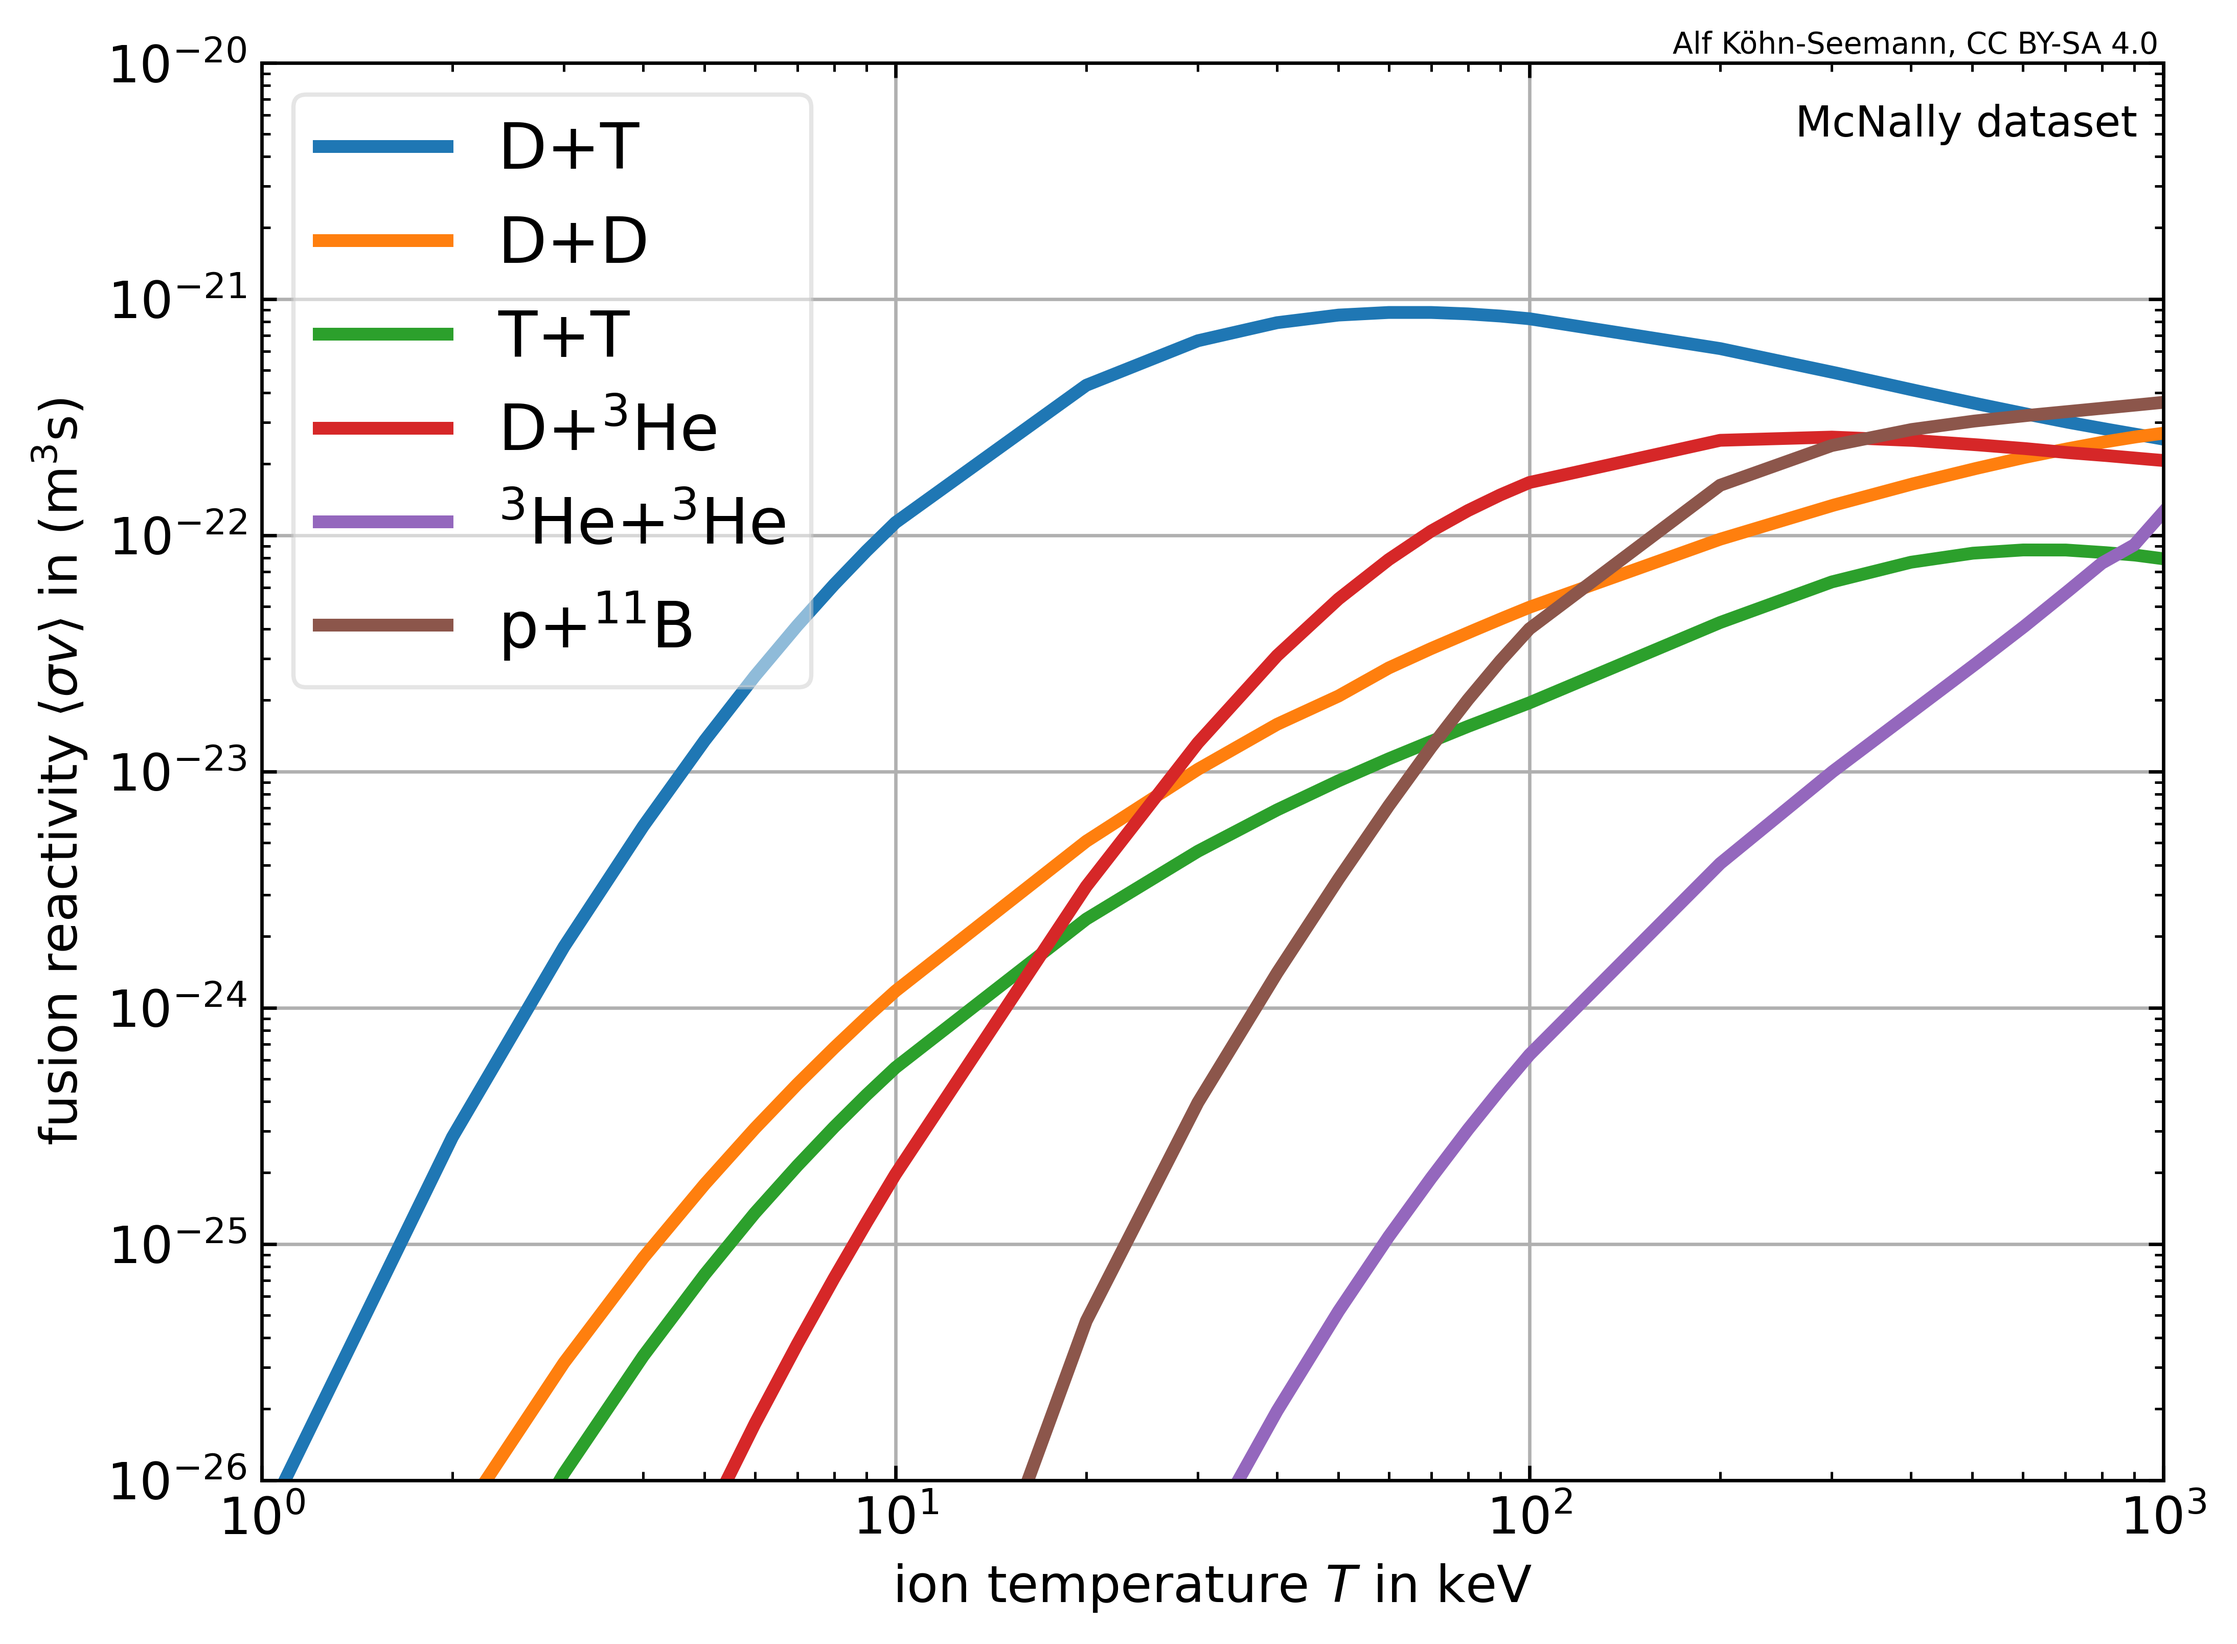
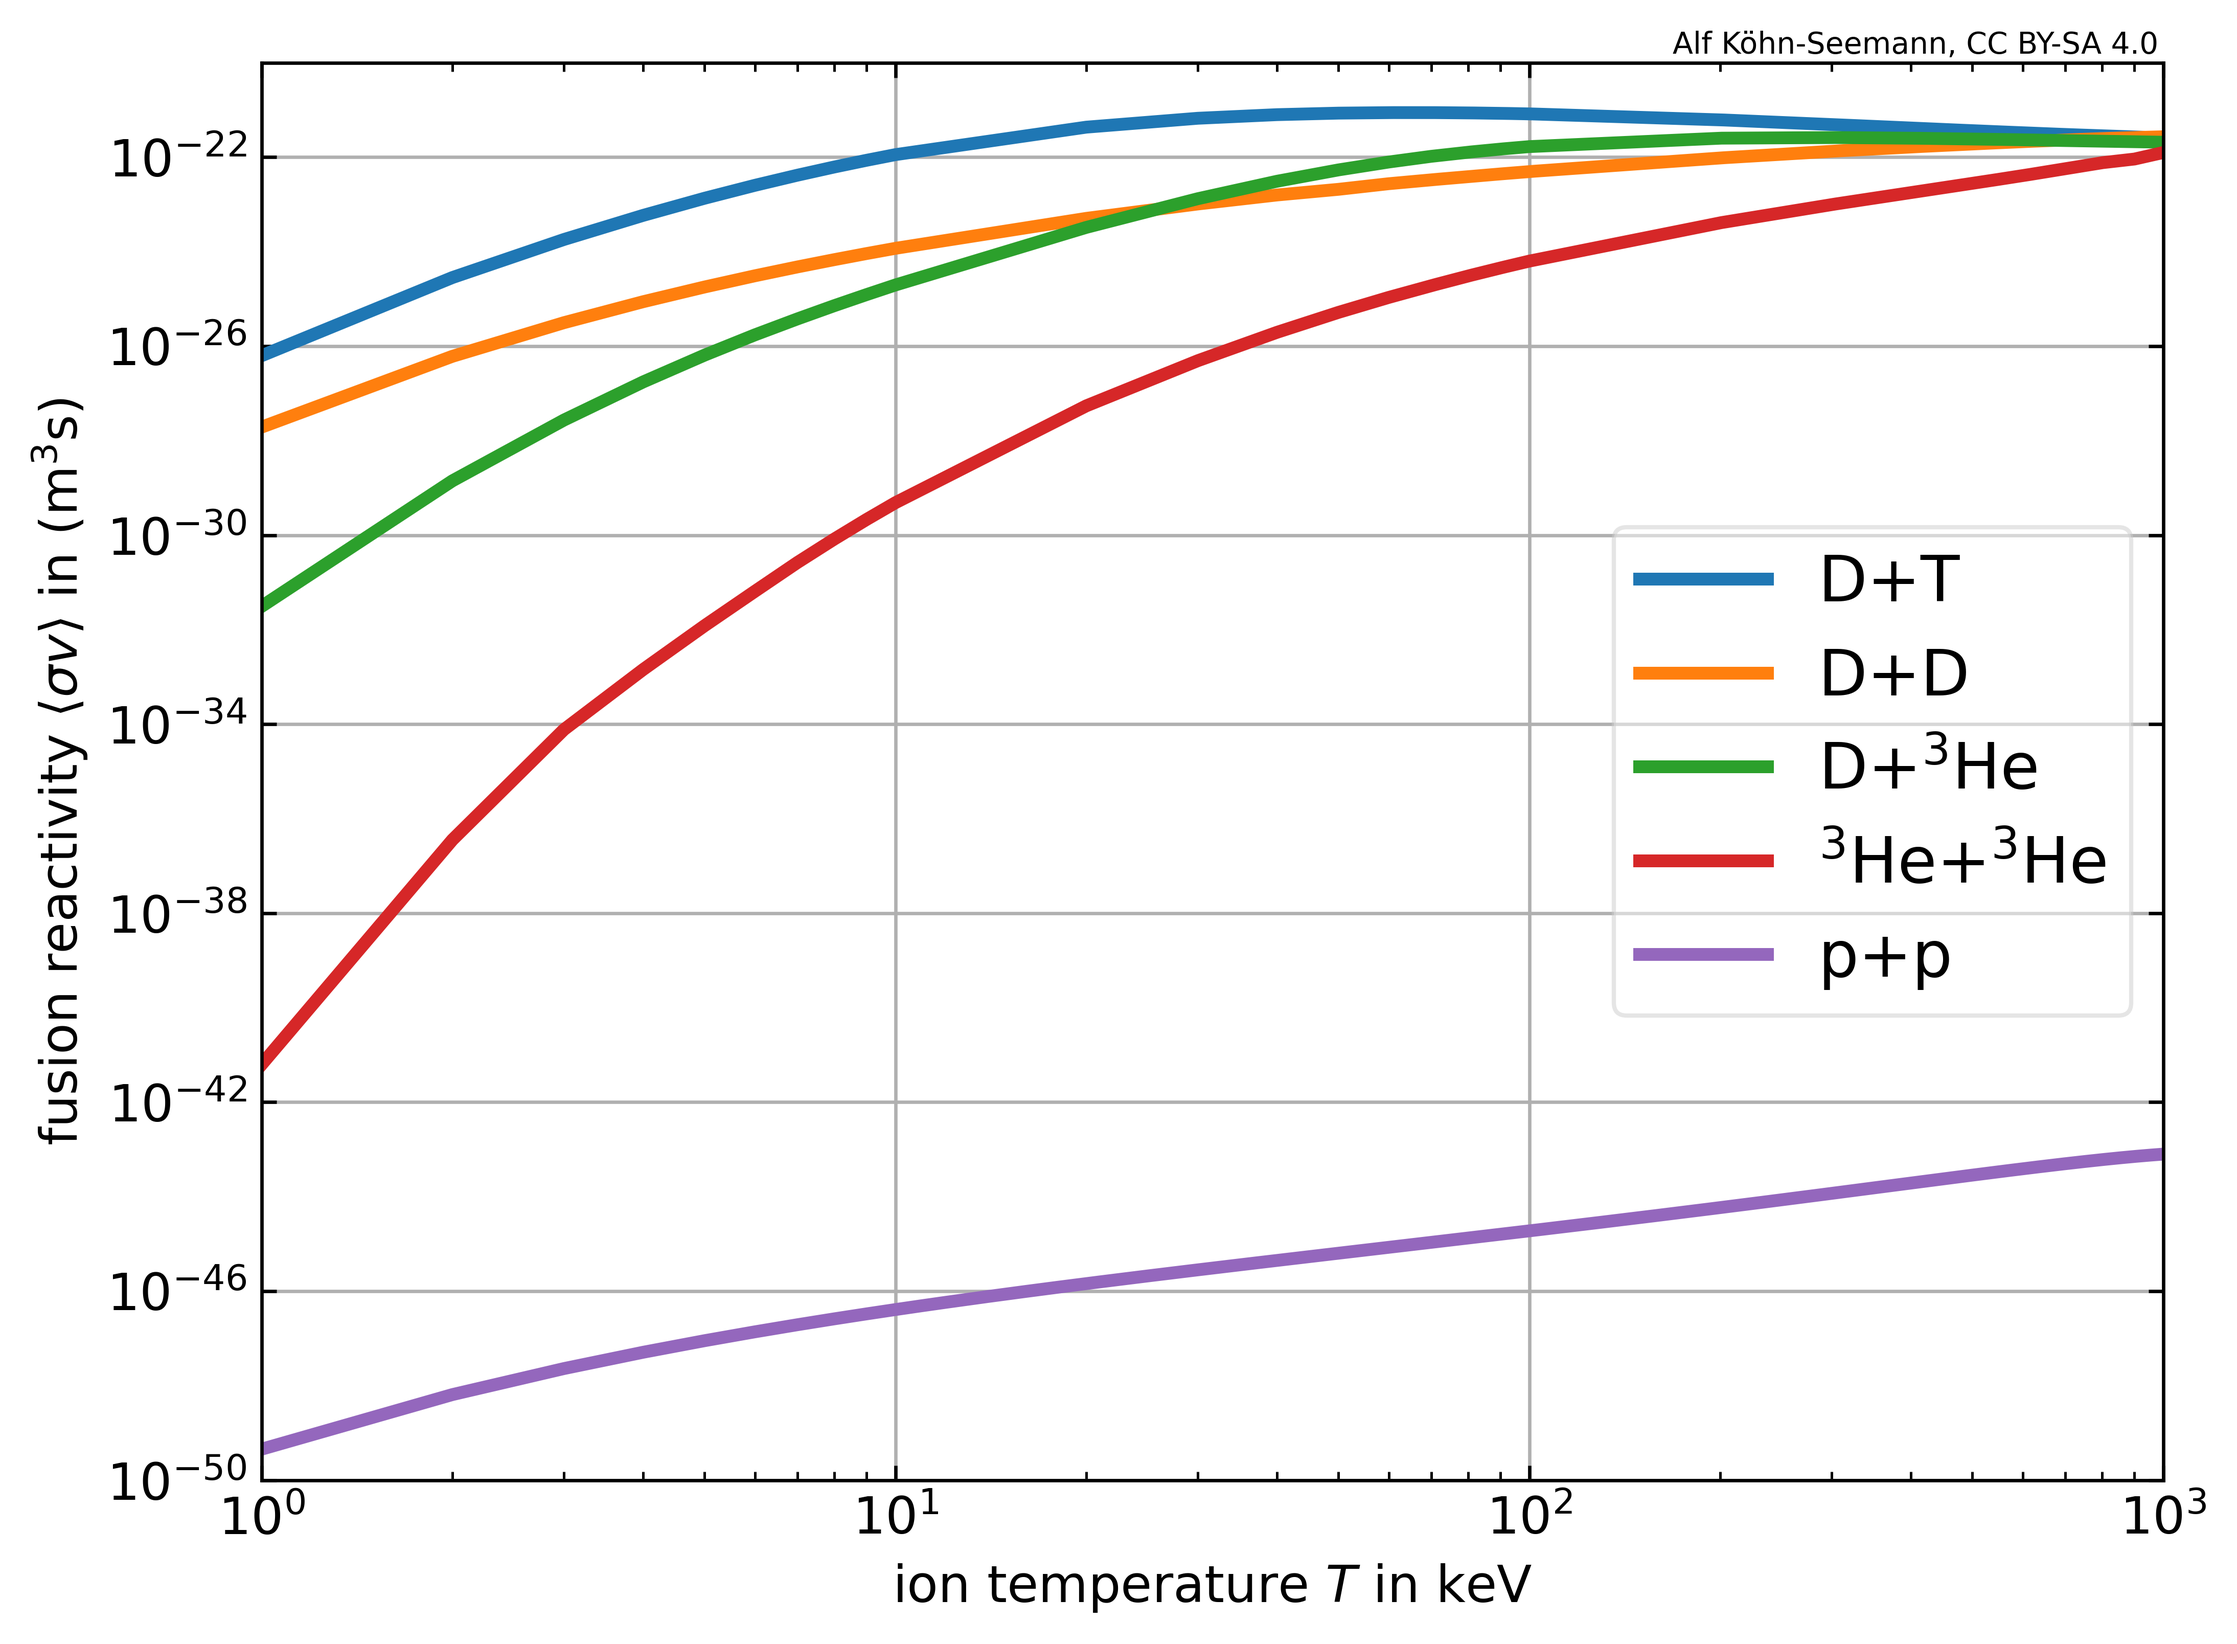
Add pp to plot

diff --git a/fusion_reactivity/fusion_reactivity.py b/fusion_reactivity/fusion_reactivity.py
@@ -726,11 +726,14 @@ def main():
     sigma_v7_McNally = get_fusion_reactivity_McNally( T_ion, reaction=7 )
     sigma_v8_McNally = get_fusion_reactivity_McNally( T_ion, reaction=8 )
 
+    sigma_v9_Angulo = get_fusion_reactivity_Angulo( T_ion, reaction=9 )
+
     plot_Hively     = False
     plot_Bosch      = False
     plot_McNally    = True
+    plot_Angulo     = True
 
-    write_datasource2plot   = True
+    write_datasource2plot   = False
     write_plotcredit        = True
 
     if plot_Hively:
@@ -753,12 +756,18 @@ def main():
         lw_McNally = 3
         ax1.plot( T_ion, sigma_v1_McNally, label='D+T', linewidth=lw_McNally )
         ax1.plot( T_ion, sigma_v2_McNally+sigma_v3_McNally, label='D+D', linewidth=lw_McNally )
-        ax1.plot( T_ion, sigma_v5_McNally, label='T+T', linewidth=lw_McNally )
+#        ax1.plot( T_ion, sigma_v5_McNally, label='T+T', linewidth=lw_McNally )
         ax1.plot( T_ion, sigma_v4_McNally, label=r'D+$^3$He', linewidth=lw_McNally )
         ax1.plot( T_ion, sigma_v7_McNally, label=r'$^3$He+$^3$He', linewidth=lw_McNally )
-        ax1.plot( T_ion, sigma_v8_McNally, label=r'p+$^{11}$B', linewidth=lw_McNally )
+#        ax1.plot( T_ion, sigma_v8_McNally, label=r'p+$^{11}$B', linewidth=lw_McNally )
 
         txt_ref_str = 'McNally dataset'
+
+    if plot_Angulo:
+        lw_Angulo = 3
+        ax1.plot( T_ion, sigma_v9_Angulo, label='p+p', linewidth=lw_Angulo )
+        
+        txt_ref_str = 'Angelo fit'
 
     if write_datasource2plot:
         txt_ref_x0 = .75
@@ -766,7 +775,8 @@ def main():
         fig1.text( txt_ref_x0, txt_ref_y0, txt_ref_str, fontsize=10 )
 
     ax1.set_xlim( np.amin(T_ion), np.amax(T_ion) )
-    ax1.set_ylim( [1e-26, 1e-20] )
+#    ax1.set_ylim( [1e-26, 1e-20] )
+    ax1.set_ylim( [1e-50, 1e-20] )
     ax1.set_xscale('log')
     ax1.set_yscale('log')
 
@@ -823,6 +833,6 @@ def test():
 
 
 if __name__ == '__main__':
-    test()
-#    main()
+#    test()
+    main()
 
